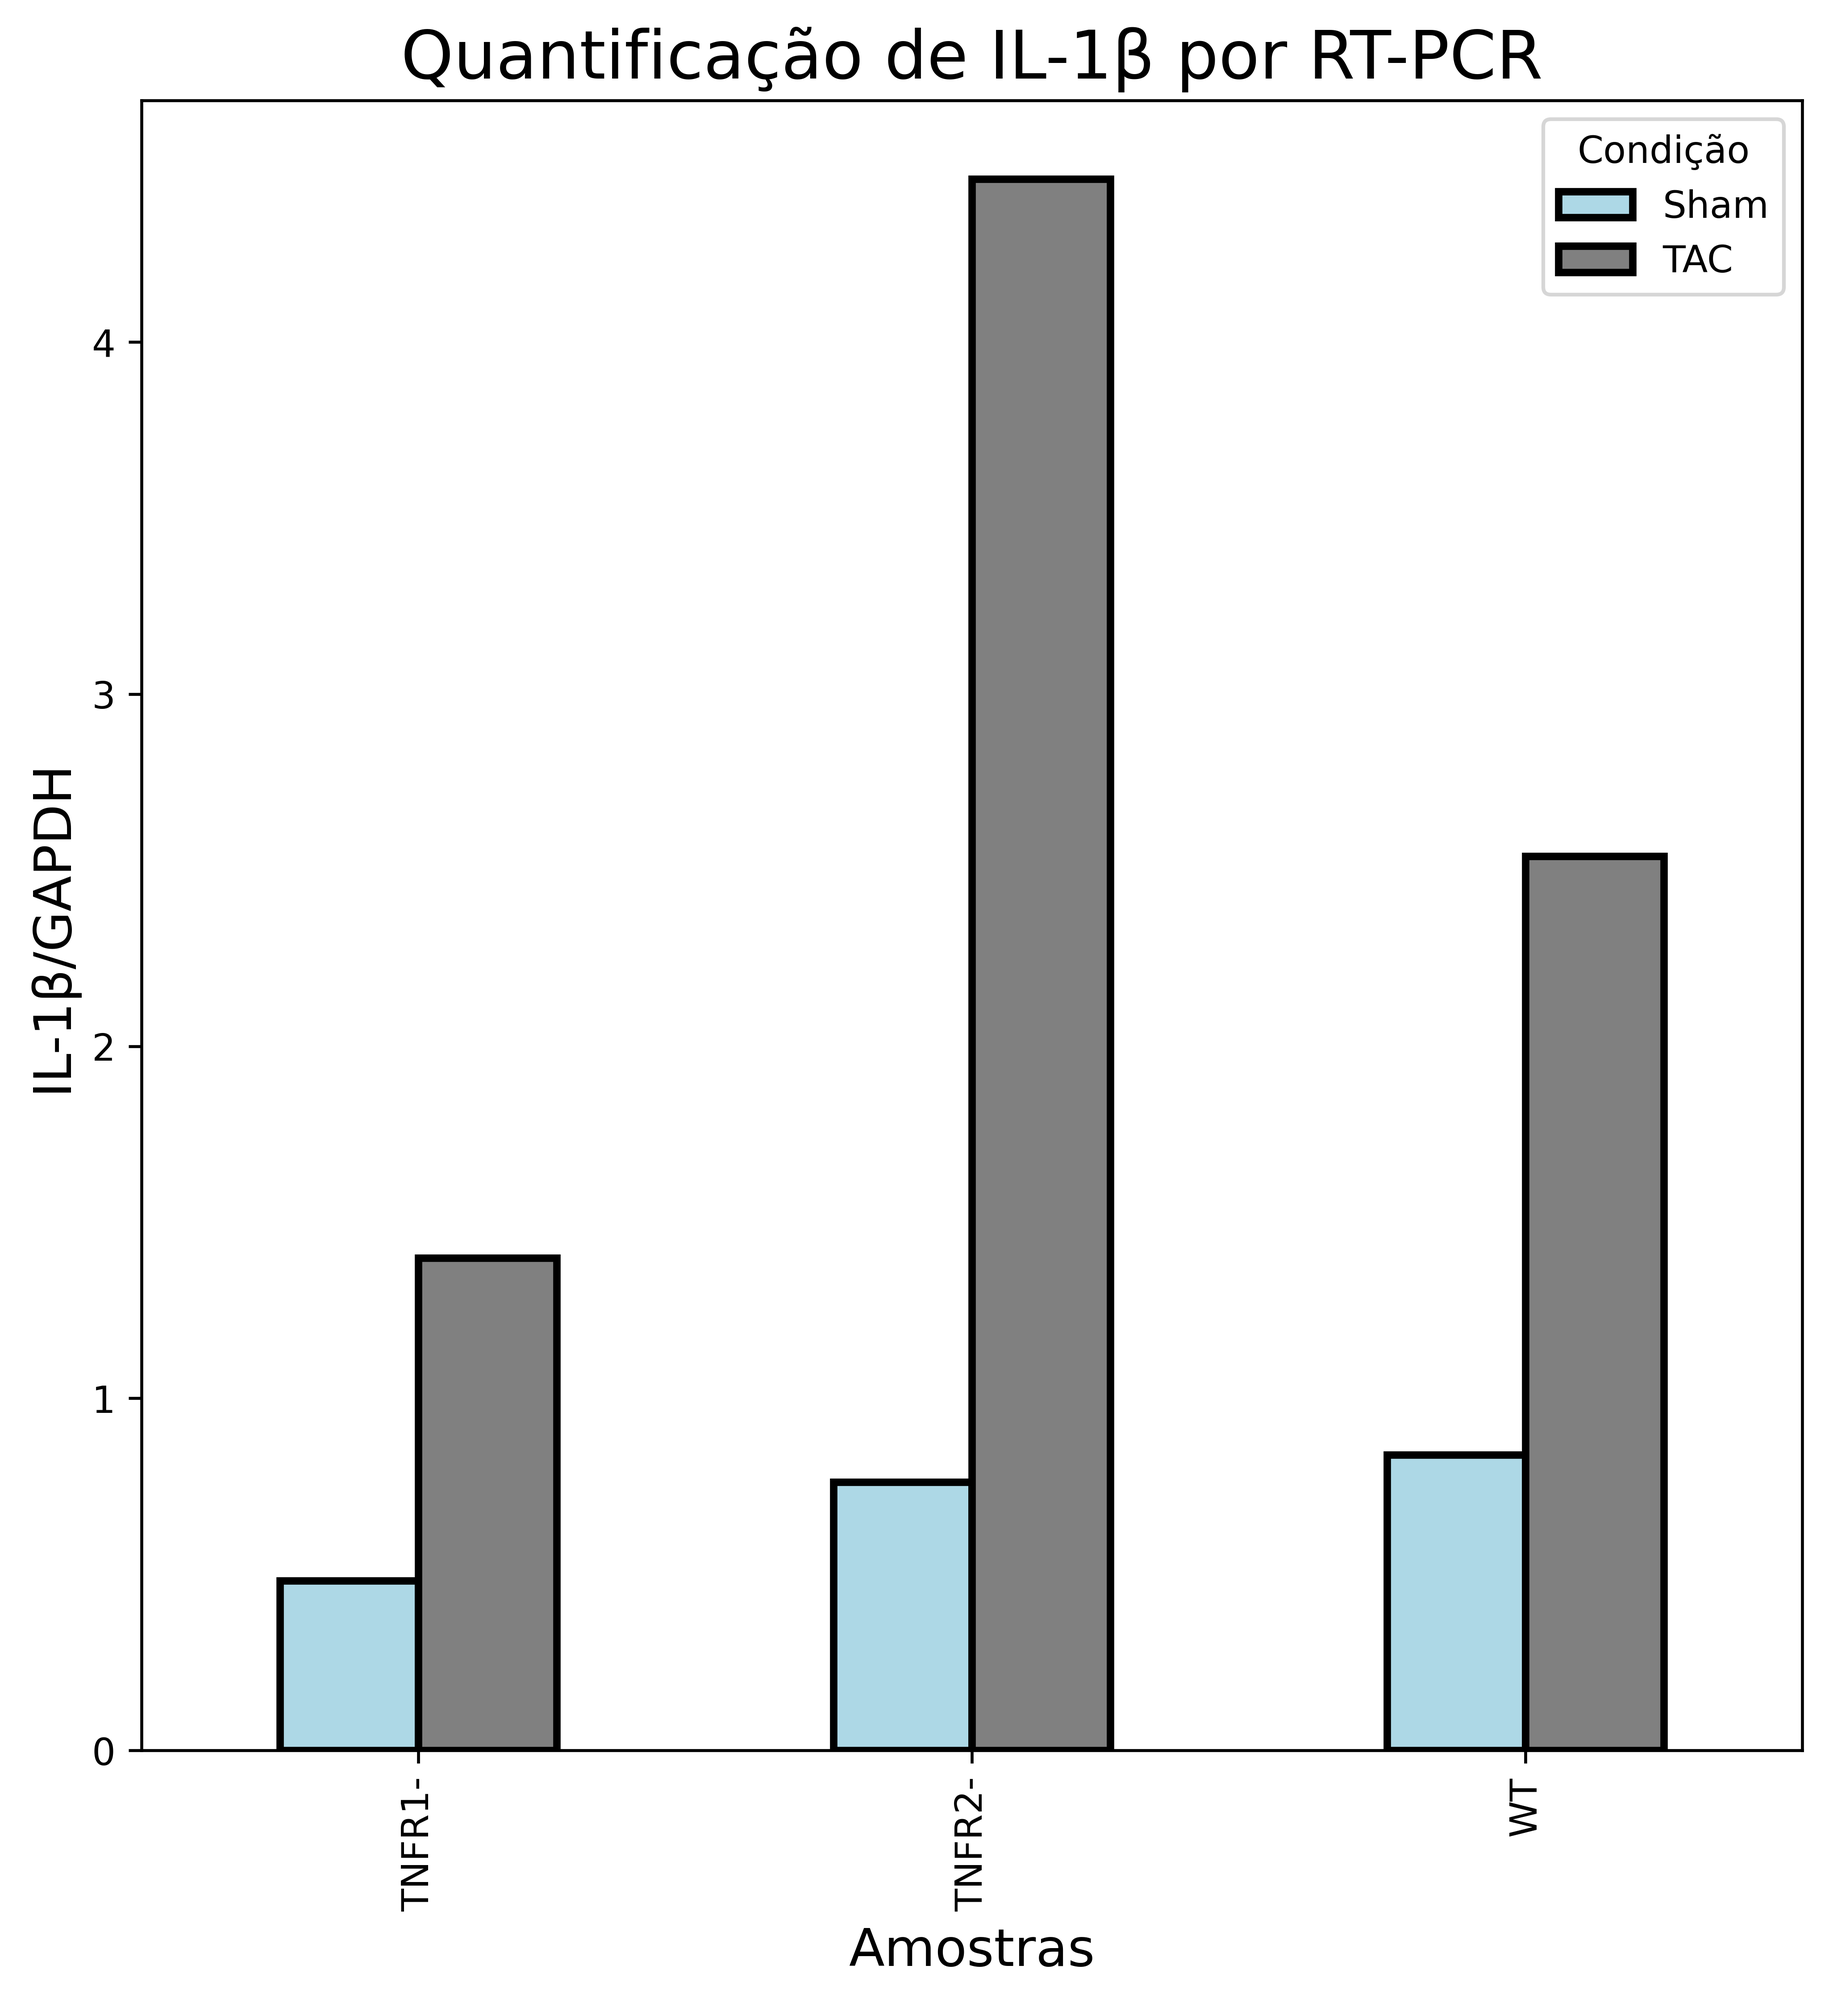
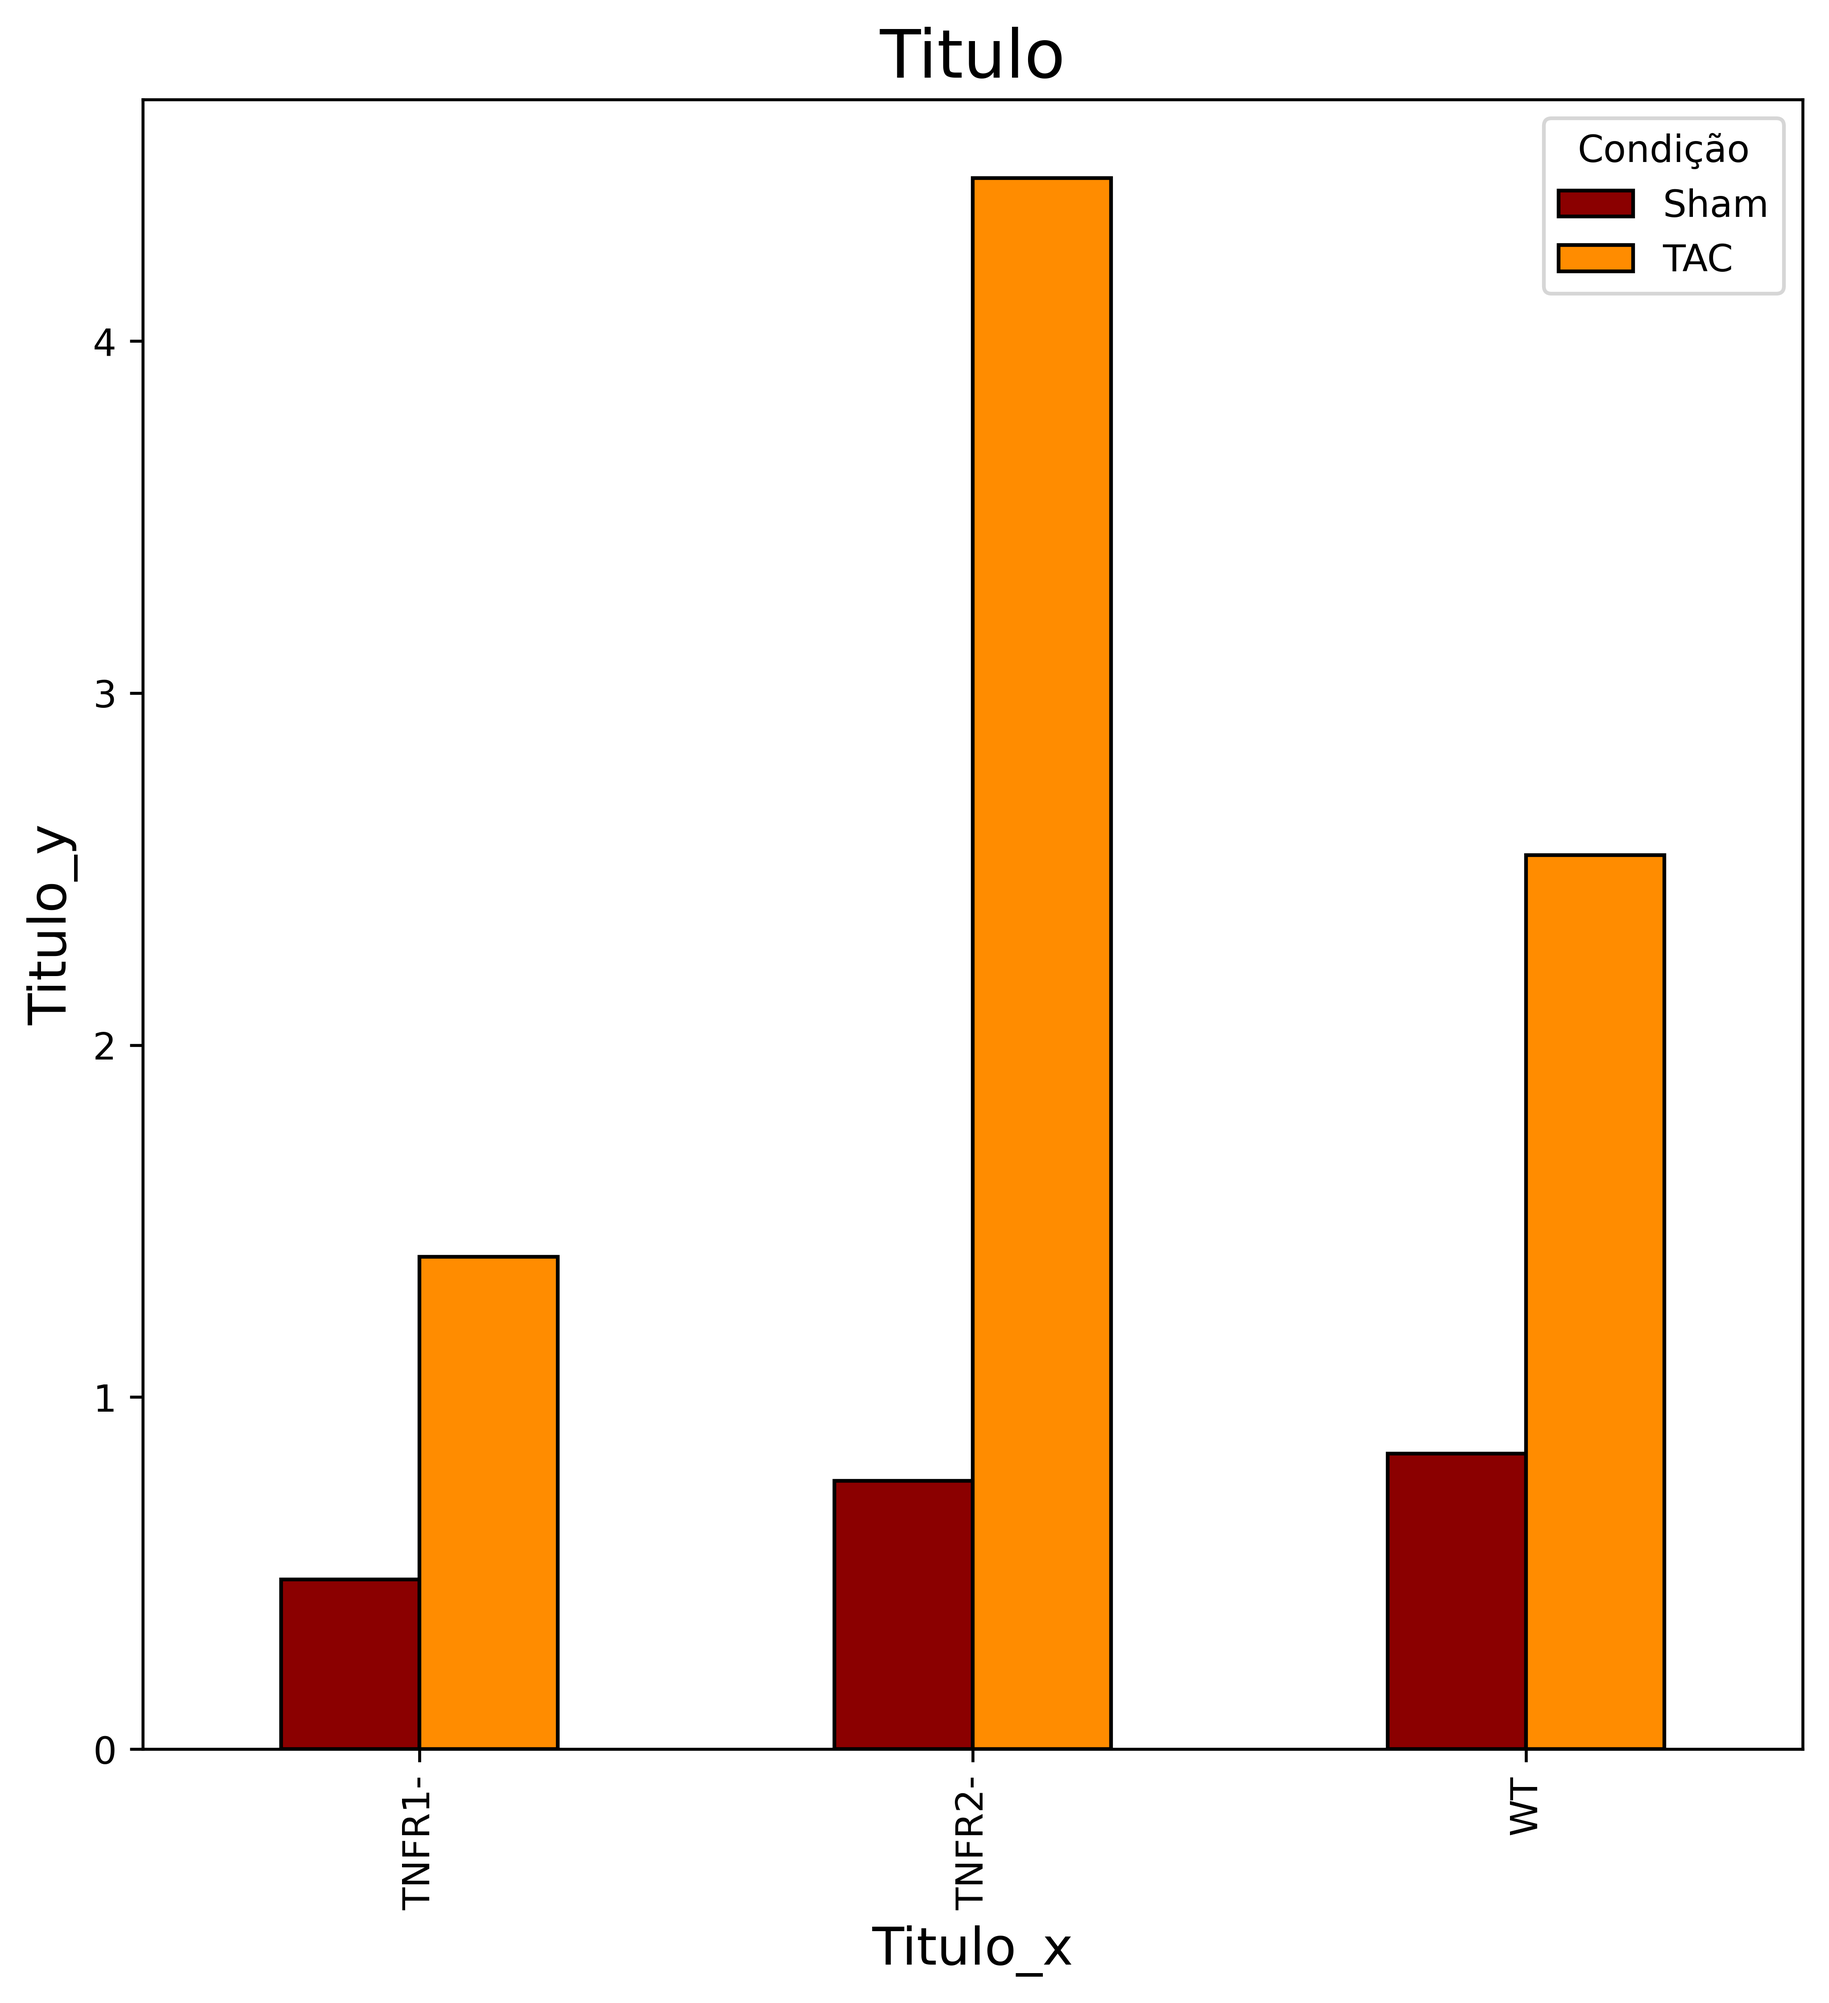
renamed:    RT-PCR_IL1.csv -> Dados/RT-PCR_IL1.csv 	renamed:    RT-PCR_IL1.xlsx -> Dados/RT-PCR_IL1.xlsx 	renamed:    Problema1.py -> Final/Problema1.py 	new file:   Final/Problema2.py 	modified:   "Gr\303\241fico_barras.png" 	modified:   Problema2.py 	new file:   Problemas/Problema1.py 	new file:  

diff --git a/Final/Problema1.py b/Final/Problema1.py
@@ -1,0 +1,35 @@
+##Código criado para o Minicurso de git e github##
+##Autores:
+
+#bibliotecas/pacotes
+import numpy as np
+import pandas as pd
+import matplotlib.pyplot as plt
+
+#Importação dos dados 
+dados_IL1 = pd.read_csv("Dados/RT-PCR_IL1.csv", header=0)
+
+#Calculo da média
+media = dados_IL1.mean()
+#print(media)
+#print(dados_IL1)
+
+#Organizando a tabela para criar o gráfico
+dados_IL1_long = pd.melt(dados_IL1, var_name="Amostra", value_name="Resultado")
+print(dados_IL1_long)
+dados_IL1_long[['Genótipo', 'Condição']] = dados_IL1_long['Amostra'].str.split("_", expand=True)
+print(dados_IL1_long)
+tabela_medias = dados_IL1_long.groupby(['Genótipo', 'Condição'])['Resultado'].mean().unstack()
+print(tabela_medias)
+
+#Gráfico
+tabela_medias.plot(kind='bar',color=["lightblue", "gray"], edgecolor="black", linewidth=2, figsize=(8, 8))
+plt.title("Quantificação de IL-1β por RT-PCR", fontsize = 18)
+plt.ylabel("IL-1β/GAPDH", fontsize = 14)
+plt.xlabel("Amostras", fontsize = 14)
+plt.savefig("Gráfico_barras.png", dpi = 600, bbox_inches = "tight")
+plt.show()
+
+
+
+

diff --git a/Problemas/Problema1.py b/Problemas/Problema1.py
@@ -7,7 +7,7 @@ import pandas as pd
 import matplotlib.pyplot as plt
 
 #Importação dos dados 
-dados_IL1 = pd.read_csv("RT-PCR_IL1.csv", header=0)
+dados_IL1 = pd.read_csv("Dados/RT-PCR_IL1.csv", header=0)
 
 #Calculo da média
 media = dados_IL1.mean()
@@ -23,10 +23,10 @@ tabela_medias = dados_IL1_long.groupby(['Genótipo', 'Condição'])['Resultado']
 print(tabela_medias)
 
 #Gráfico
-tabela_medias.plot(kind='bar',color=["lightblue", "gray"], edgecolor="black", linewidth=2, figsize=(8, 8))
-plt.title("Quantificação de IL-1β por RT-PCR", fontsize = 18)
-plt.ylabel("IL-1β/GAPDH", fontsize = 14)
-plt.xlabel("Amostras", fontsize = 14)
+tabela_medias.plot(kind='bar',color=["darkred", "darkorange"], edgecolor="black", linewidth=1, figsize=(8, 8))
+plt.title("Titulo", fontsize = 18)
+plt.ylabel("Titulo_y", fontsize = 14)
+plt.xlabel("Titulo_x", fontsize = 14)
 plt.savefig("Gráfico_barras.png", dpi = 600, bbox_inches = "tight")
 plt.show()
 

diff --git a/Final/Problema2.py b/Final/Problema2.py
@@ -36,8 +36,15 @@ AAAAAAAAAAAAAAAA"""
 alvo = "GGAAGGAGTTCATGCGTTT"
 
 # 3. Limpeza: removemos as quebras de linha do texto do gene
-gene_limpo = gene_tnfr1.replace("\n", "")
+gene_limpo = gene_tnfr1.replace("\n", "").upper()
+alvo = alvo.upper()
 
-# 4. Buscamos a posição (adicionamos +1 pois o Python começa a contar do 0)
+# 4. Buscamos a posição (adicionamos +1 pois o Python começa a contar do 0, e a biologia do 1)
 posicao = gene_limpo.find(alvo) + 1
-print(posicao)
+
+if posicao > 0:
+    print(f"✅ Sequência alvo encontrada!")
+    print(f"Posição inicial: nucleotídeo {posicao}")
+    print(f"Posição final: nucleotídeo {posicao + len(alvo) - 1}")
+else:
+    print("Sequência não encontrada no gene.")

diff --git a/Problemas/Problema2.py b/Problemas/Problema2.py
@@ -41,3 +41,10 @@ gene_limpo = gene_tnfr1.replace("\n", "")
 # 4. Buscamos a posição (adicionamos +1 pois o Python começa a contar do 0)
 posicao = gene_limpo.find(alvo) + 1
 print(posicao)
+
+if posicao > 0:
+    print(f"✅ Sequência alvo encontrada!")
+    print(f"Posição inicial: nucleotídeo {posicao}")
+    print(f"Posição final: nucleotídeo {posicao + len(alvo) - 1}")
+else:
+    print("Sequência não encontrada no gene.")
